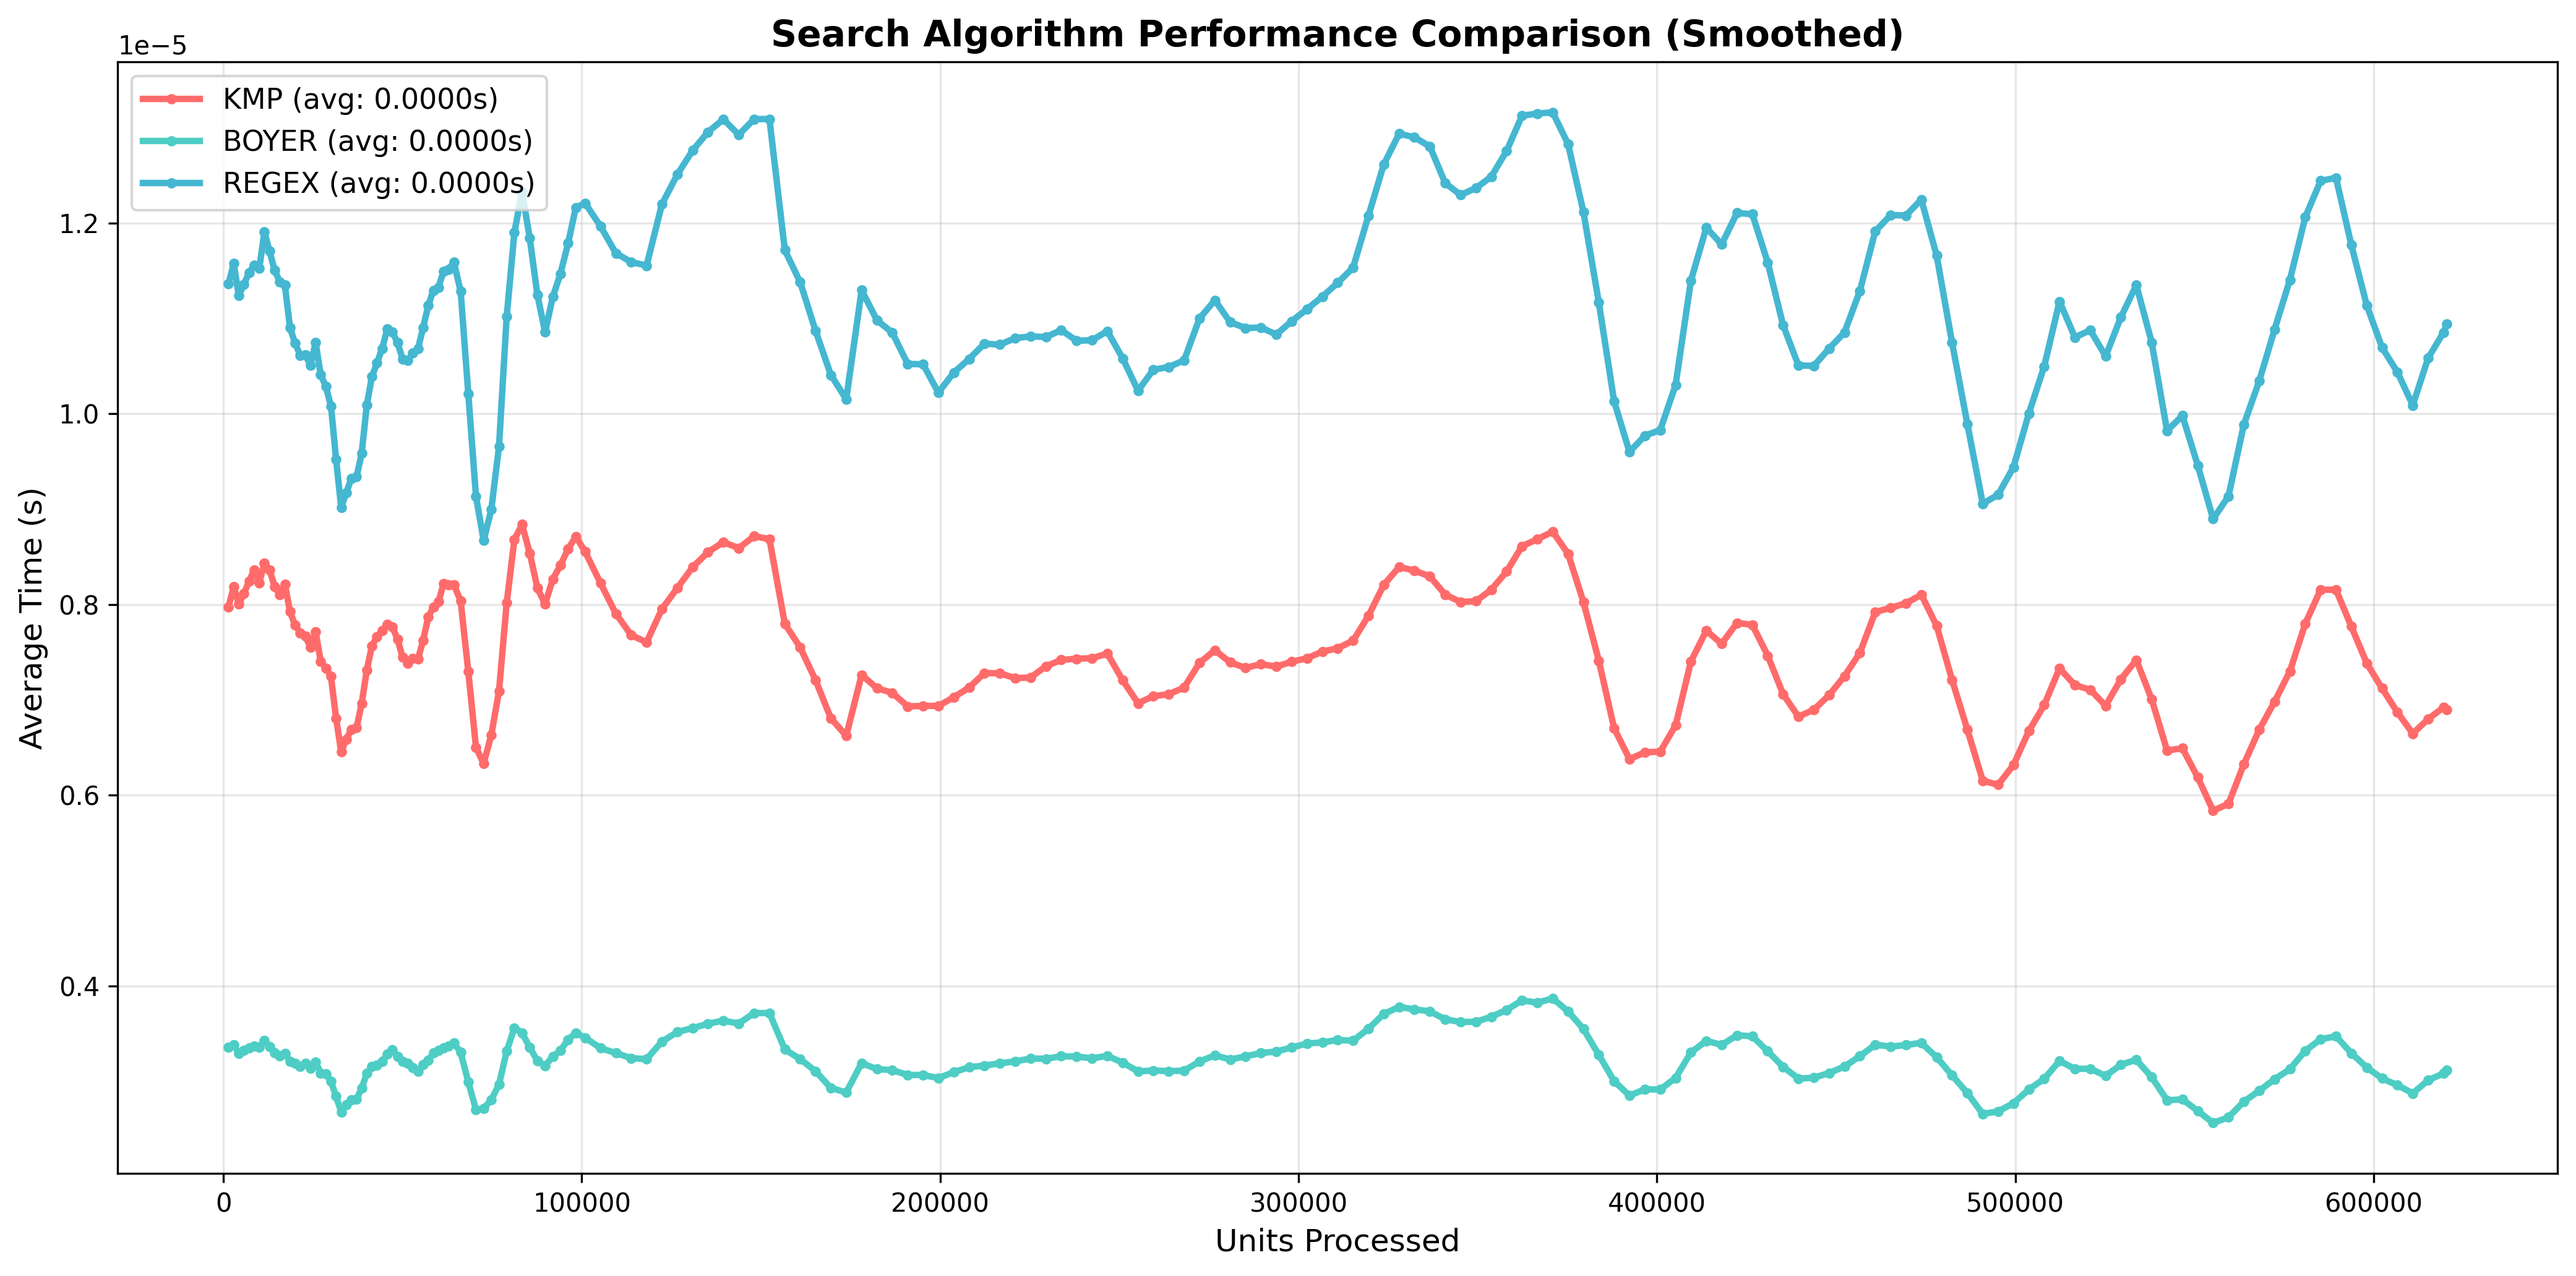
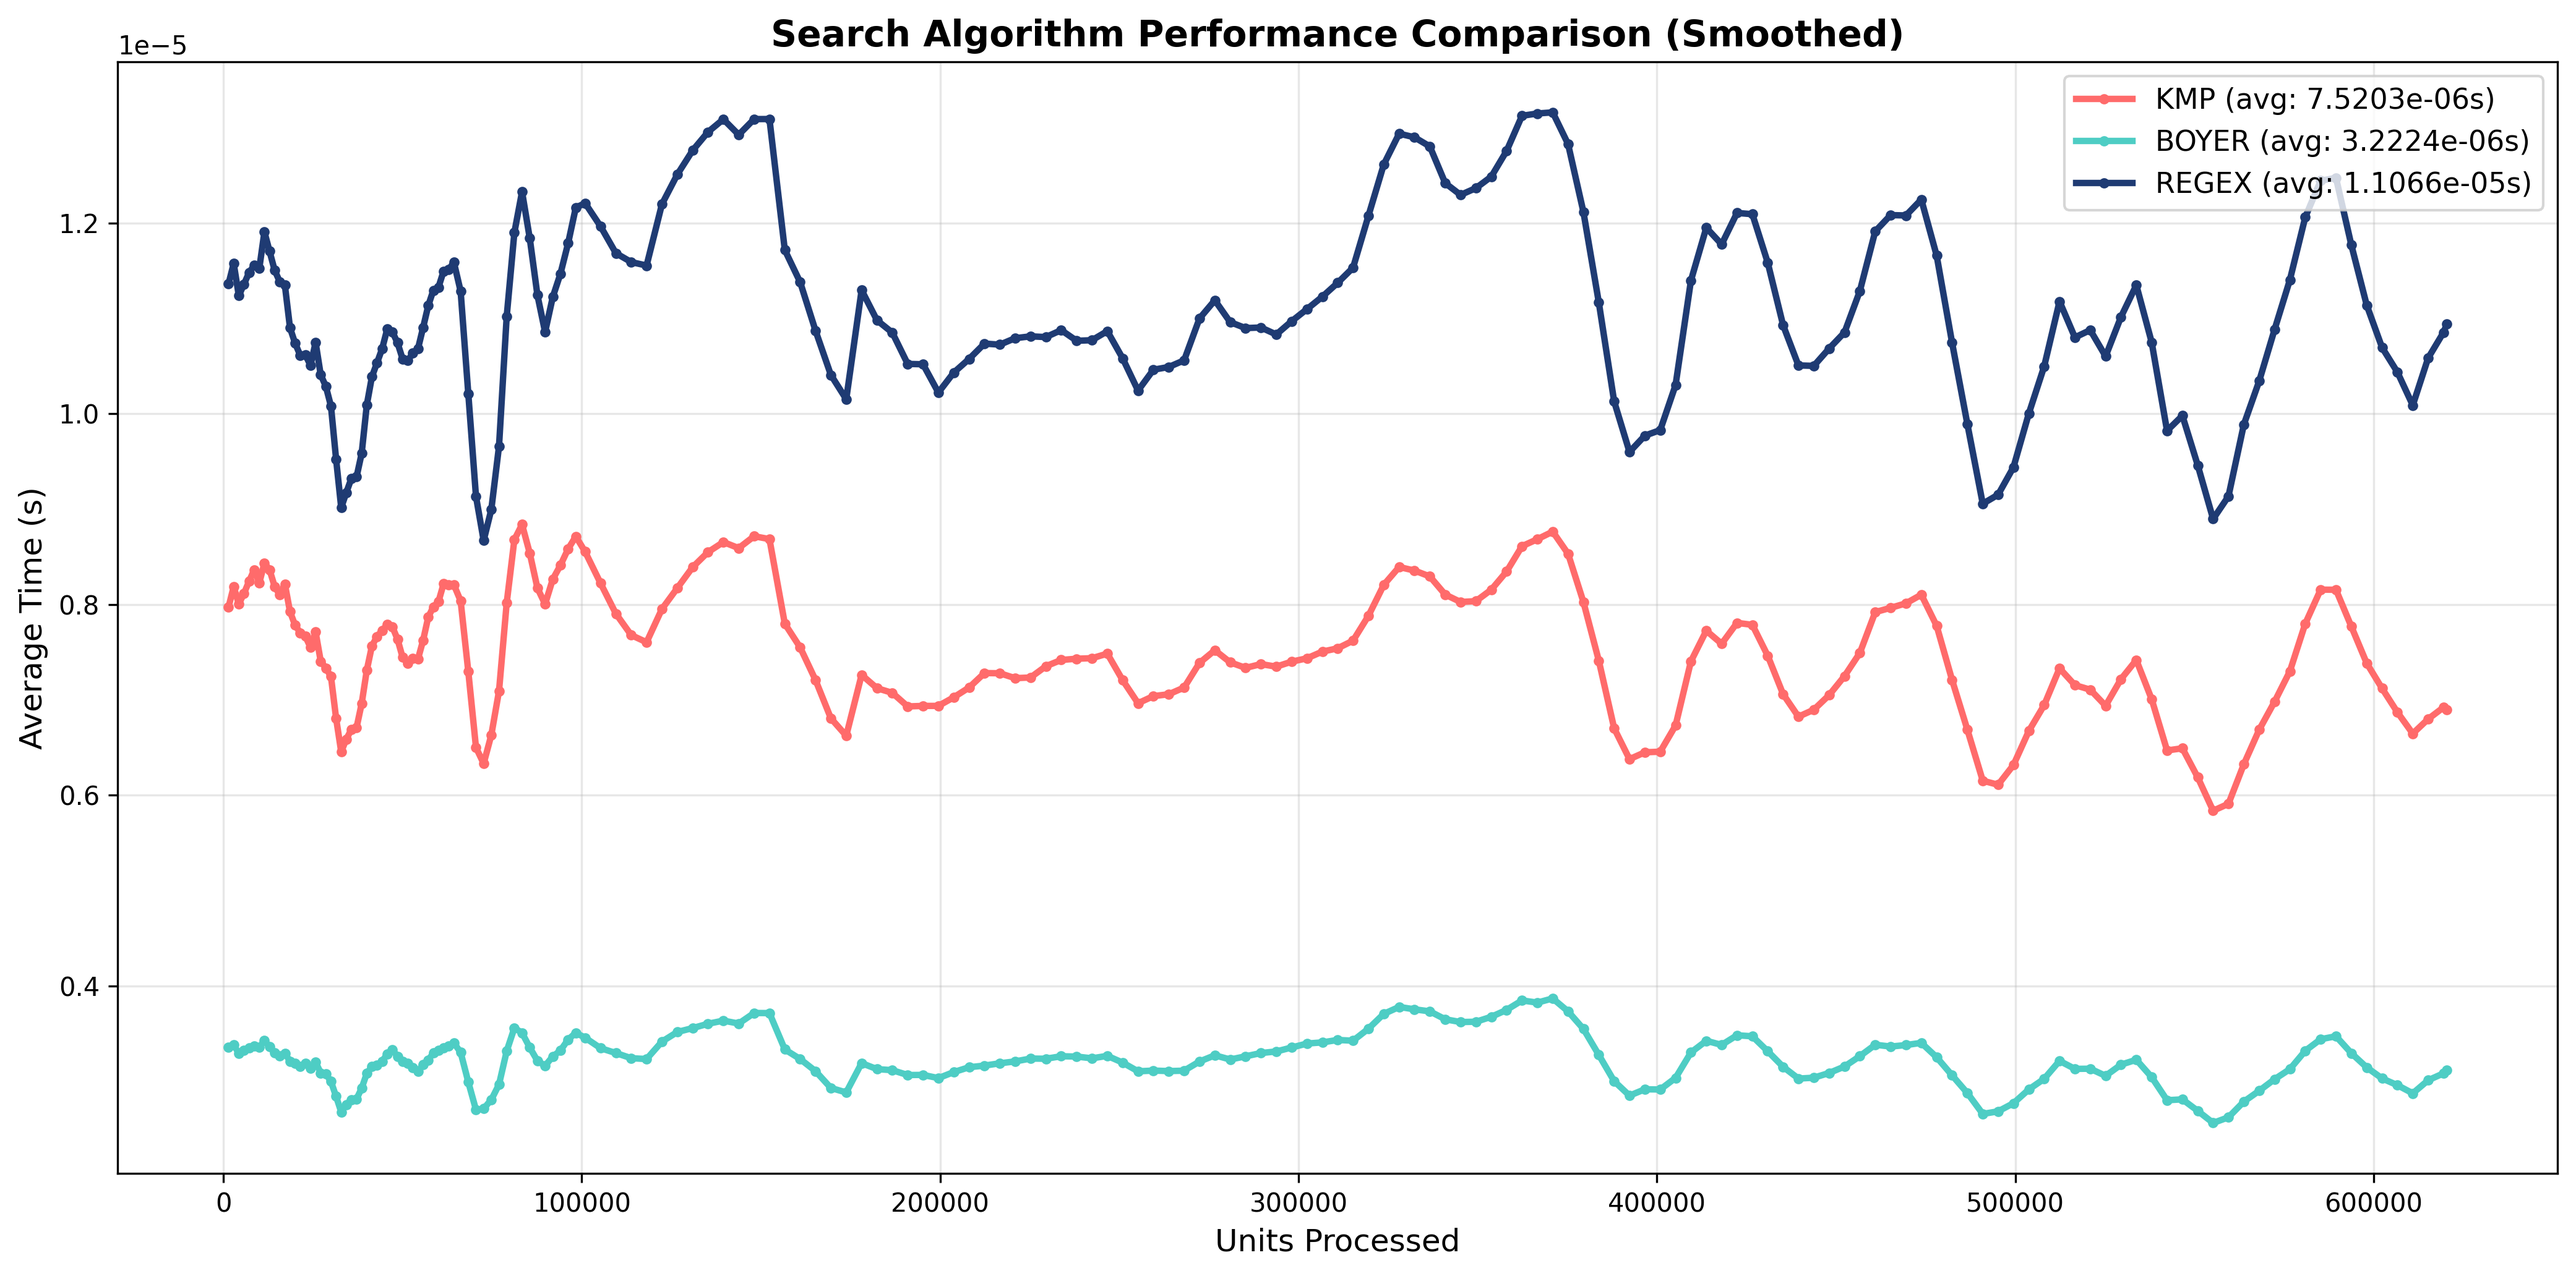
Graph for All Fixed

diff --git a/graph_generator.py b/graph_generator.py
@@ -86,7 +86,7 @@ def plot_comparison_all_modes(modes=['kmp', 'boyer', 'regex'], step=50000, smoot
     """
     plt.figure(figsize=(14, 7))
 
-    colors = ['#FF6B6B', '#4ECDC4', '#45B7D1']  # Different colors for each mode
+    colors = ['#FF6B6B', '#4ECDC4', '#1F3B73']  # Different colors for each mode
 
     for mode, color in zip(modes, colors):
         folder_path = f"TestResultsLines/{mode}/"
@@ -119,12 +119,15 @@ def plot_comparison_all_modes(modes=['kmp', 'boyer', 'regex'], step=50000, smoot
             min_periods=1
         ).mean()
 
-        # Plot smoothed line only
+        # Plot smoothed line with scientific notation in legend
+        avg_time = df["Time (s)"].mean()
         plt.plot(df_avg["Units Processed"], df_avg["Time (s) Smoothed"],
-                 linewidth=2.5, color=color, label=f'{mode.upper()} (avg: {df["Time (s)"].mean():.4f}s)', marker='o',
-                 markersize=3)
+                 linewidth=2.5, color=color,
+                 label=f'{mode.upper()} (avg: {avg_time:.4e}s)',
+                 marker='o', markersize=3)
 
-        print(f"{mode.upper()}: Average time = {df['Time (s)'].mean():.4f}s, {len(df_avg)} bins")
+        # Print in scientific notation
+        print(f"{mode.upper()}: Average time = {avg_time:.4e}s, {len(df_avg)} bins")
 
     plt.title("Search Algorithm Performance Comparison (Smoothed)", fontsize=14, fontweight='bold')
     plt.xlabel("Units Processed", fontsize=12)
